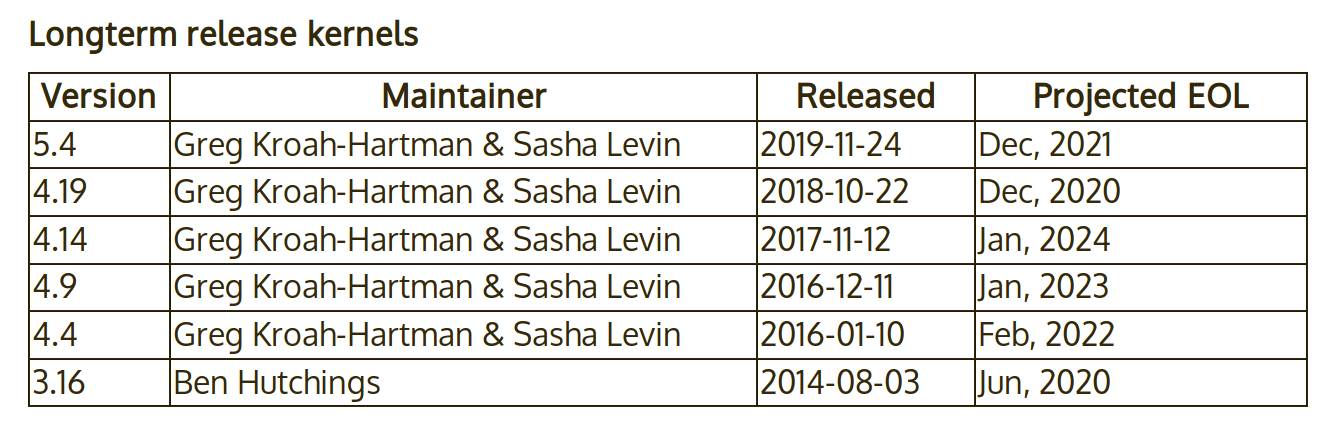
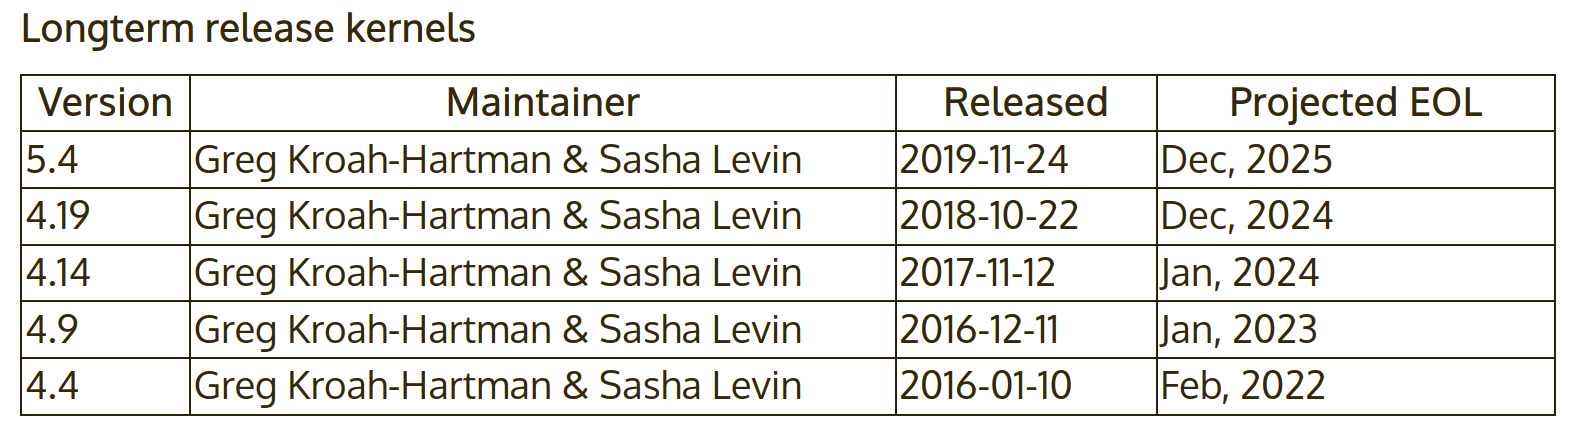
Embedded Linux training: misc improvements

Changed region(s): [[0.0, 0.1505, 1.0, 0.963], [0.0, 0.0301, 0.3378, 0.1204]]

diff --git a/slides/sysdev-bootloaders-u-boot/sysdev-bootloaders-u-boot.tex b/slides/sysdev-bootloaders-u-boot/sysdev-bootloaders-u-boot.tex
@@ -13,7 +13,7 @@
     \url{https://gitlab.denx.de/u-boot/u-boot}
   \item Development and discussions happen around an open mailing-list
     \url{https://lists.denx.de/pipermail/u-boot/}
-  \item Follows a fixed-interval release schedule. Every two months,
+  \item Follows a regular release schedule. Every 2 or 3 months,
     a new version is released. Versions are named \code{YYYY.MM}.
 \end{itemize}
 \end{frame}
@@ -21,16 +21,16 @@
 \begin{frame}
   \frametitle{U-Boot configuration}
   \begin{itemize}
-  \item Get the source code from the website, and uncompress it
-  \item The \code{configs/} directory contains one configuration file
+  \item Get the source code from the website or from git, and uncompress it
+  \item The \projdir{u-boot}{configs} directory contains one configuration file
     for each supported board
     \begin{itemize}
     \item It defines the CPU type, the peripherals and their configuration, the
       memory mapping, the U-Boot features that should be compiled in, etc.
     \end{itemize}
   \item Note: U-Boot is migrating from board configuration defined in
-    C header files (\code{include/configs/}) to {\em defconfig} like in
-    the Linux kernel (\code{configs/})
+    C header files (\projdir{u-boot}{include/configs}) to {\em defconfig} like in
+    the Linux kernel (\projdir{u-boot}{configs})
     \begin{itemize}
     \item Not all boards have been converted to the new configuration
       system.
@@ -76,6 +76,7 @@ CONFIG_USB_EHCI_HCD=y
   \begin{itemize}
   \item U-Boot must be configured before being compiled
     \begin{itemize}
+    \item Configuration stored in a \code{.config} file
     \item \code{make BOARDNAME_defconfig}
     \item Where \code{BOARDNAME} is the name of a configuration, as
       visible in the \code{configs/} directory.
@@ -188,7 +189,7 @@ Device 0: nand0, sector size 128 KiB
 \begin{frame}[fragile]
   \frametitle{Information commands (2)}
 \begin{block}{Version details}
-{\tiny
+{\small
 \begin{verbatim}
 => version
 U-Boot 2020.04 (May 26 2020 - 16:05:43 +0200)
@@ -300,7 +301,8 @@ u-boot # saveenv
   \begin{itemize}
   \item \code{bootcmd}, specifies the commands that U-Boot will
     automatically execute at boot time after a configurable delay
-    (\code{bootdelay}), if the process is not interrupted
+    (\code{bootdelay}), if the process is not interrupted. See next
+    page for an example.
   \item \code{bootargs}, contains the arguments passed to the Linux
     kernel, covered later
   \item \code{serverip}, the IP address of the server that U-Boot will
@@ -330,8 +332,9 @@ u-boot # saveenv
     \item You can reference other variables using
       \code{${variable-name}}
     \end{itemize}
-  \item Example
+  \item Examples
     \begin{itemize}
+    \item \code{setenv bootcmd 'tftp 0x21000000 zImage; tftp 0x22000000 dtb; bootz 0x21000000 - 0x22000000'}
     \item \code{setenv mmc-boot 'if fatload mmc 0 80000000
       boot.ini; then source; else if fatload mmc 0 80000000 zImage;
       then run mmc-do-boot; fi; fi'}
@@ -374,8 +377,8 @@ u-boot # saveenv
   \item A TFTP server is needed on the development workstation
     \begin{itemize}
     \item \code{sudo apt install tftpd-hpa}
-    \item All files in \code{/var/lib/tftpboot} (in Ubuntu 18.04)
-          or in \code{/srv/tftp} (in Ubuntu 20.04) are then visible through TFTP
+    \item All files in \code{/var/lib/tftpboot} or in \code{/srv/tftp}
+      (if \code{/srv} exists) are then visible through TFTP
     \item A TFTP client is available in the \code{tftp-hpa} package,
       for testing
     \end{itemize}
@@ -383,7 +386,8 @@ u-boot # saveenv
     \begin{itemize}
     \item Configure the \code{ipaddr} and \code{serverip} environment
       variables
-    \item Use \code{tftp <address> <filename>} to load a file
+    \item Use \code{tftp <address> <filename>} to load file contents to
+      the specified RAM address
     \end{itemize}
   \end{itemize}
 \end{frame}

diff --git a/slides/sysdev-dev-environment/sysdev-dev-environment.tex b/slides/sysdev-dev-environment/sysdev-dev-environment.tex
@@ -27,14 +27,15 @@
   \begin{itemize}
   \item All community tools are developed and designed to run on
     Linux. Trying to use them on other operating systems (Windows, Mac
-    OS X) will lead to trouble, and their usage on these systems is
-    generally not supported by community developers.
+    OS X) will lead to trouble.
   \item As Linux also runs on the embedded device, all the knowledge
     gained from using Linux on the desktop will apply similarly to the
     embedded device.
   \item If you are stuck with a Windows desktop, at least you should
     use GNU/Linux in a virtual machine (such as VirtualBox which is open
     source), though there could be a small performance penalty.
+    With Windows 10, you can also run your favorite native Linux distro through
+    Windows Subsystem for Linux (WSL2)
   \end{itemize}
   \begin{center}
     \includegraphics[width=0.5\textwidth]{slides/sysdev-dev-environment/linux-as-development-os.pdf}
@@ -208,8 +209,8 @@
     \item In a shell, hit \code{[Control] [r]}, then a keyword, will
       search through the command history. Hit \code{[Control] [r]}
       again to search backwards in the history
-    \item You can copy/paste paths directly from the file manager to
-      the terminal by drag-and-drop.
+    \item You may be able copy/paste paths directly from the file manager to
+      the terminal by drag-and-drop (some distribution versions support this)
     \end{itemize}
   \end{itemize}
 \end{frame}

diff --git a/slides/sysdev-intro/sysdev-intro.tex b/slides/sysdev-intro/sysdev-intro.tex
@@ -15,8 +15,9 @@
       \item ~1995, Linux is more and more popular on server systems
       \item ~2000, Linux is more and more popular on {\bf embedded
           systems}
-      \item ~2008, Linux is more and more popular on mobile devices
-      \item ~2010, Linux is more and more popular on phones
+      \item ~2008, Linux is more and more popular on mobile devices and phones
+      \item ~2012, Linux is available on cheap, extensible hardware:
+            Raspberry Pi, BeagleBone Black
       \end{itemize}
     \column{0.25\textwidth}
       \includegraphics[width=\textwidth]{slides/sysdev-intro/richard-stallman.jpg}
@@ -283,6 +284,7 @@
     \item CAN
     \item 1-wire
     \item SDIO
+    \item PCI
     \item USB
     \end{itemize}
   \item And also extensive networking support
@@ -301,7 +303,7 @@
   \begin{itemize}
   \item {\bf Evaluation platforms} from the SoC vendor. Usually
     expensive, but many peripherals are built-in. Generally unsuitable
-    for real products.
+    for real products, but best for product development.
   \item {\bf Component on Module}, a small board with only
     CPU/RAM/flash and a few other core components, with connectors to
     access all other peripherals. Can be used to build end products

diff --git a/slides/sysdev-bootloaders-sequence/sysdev-bootloaders-sequence.tex b/slides/sysdev-bootloaders-sequence/sysdev-bootloaders-sequence.tex
@@ -167,10 +167,10 @@
       The most used on ARM, also used on PPC, MIPS, x86, m68k, RiscV,
       etc. The de-facto standard nowadays. We will study it in detail.\\
       \url{https://www.denx.de/wiki/U-Boot}
-    \item {\bf Barebox}, an architecture-neutral bootloader, written
-      as a successor of U-Boot. It doesn't have as much hardware support
-      as U-Boot yet. U-Boot has improved quite a lot thanks to this
-      competitor.\\
+    \item {\bf Barebox}, an architecture-neutral bootloader created by
+      Pengutronix.\\
+      It doesn't have as much hardware support as U-Boot yet. U-Boot
+      has improved quite a lot thanks to this competitor.\\
       \url{https://www.barebox.org}
     \end{itemize}
   \end{itemize}

diff --git a/slides/sysdev-linux-intro-versioning/sysdev-linux-intro-versioning.tex b/slides/sysdev-linux-intro-versioning/sysdev-linux-intro-versioning.tex
@@ -41,10 +41,10 @@
   \end{itemize}
   \begin{columns}
   \column{0.6\textwidth}
-  \includegraphics[height=0.3\textheight]{slides/sysdev-linux-intro-versioning/longterm-release-kernels.png}\\
+  \includegraphics[width=\textwidth]{slides/sysdev-linux-intro-versioning/longterm-release-kernels.png}\\
   \column{0.4\textwidth}
   \scriptsize
-   Captured on \url{https://kernel.org} in Nov. 2019, following the
+   Captured on \url{https://kernel.org} in Jul. 2020, following the
    \href{https://www.kernel.org/category/releases.html}{\em Releases} link.
   \end{columns}
 \end{frame}

diff --git a/slides/c-libraries/c-libraries.tex b/slides/c-libraries/c-libraries.tex
@@ -130,6 +130,7 @@ compare the size
   \item If you run into trouble, it could be because of missing features
         in the C library.
   \item In case you wish to make static executables, {\em musl} will be
-        an easier choice.
+        an easier choice. Note that static executables built with a given C library
+        can be used in a system with a different C library.
   \end{itemize}
 \end{frame}
